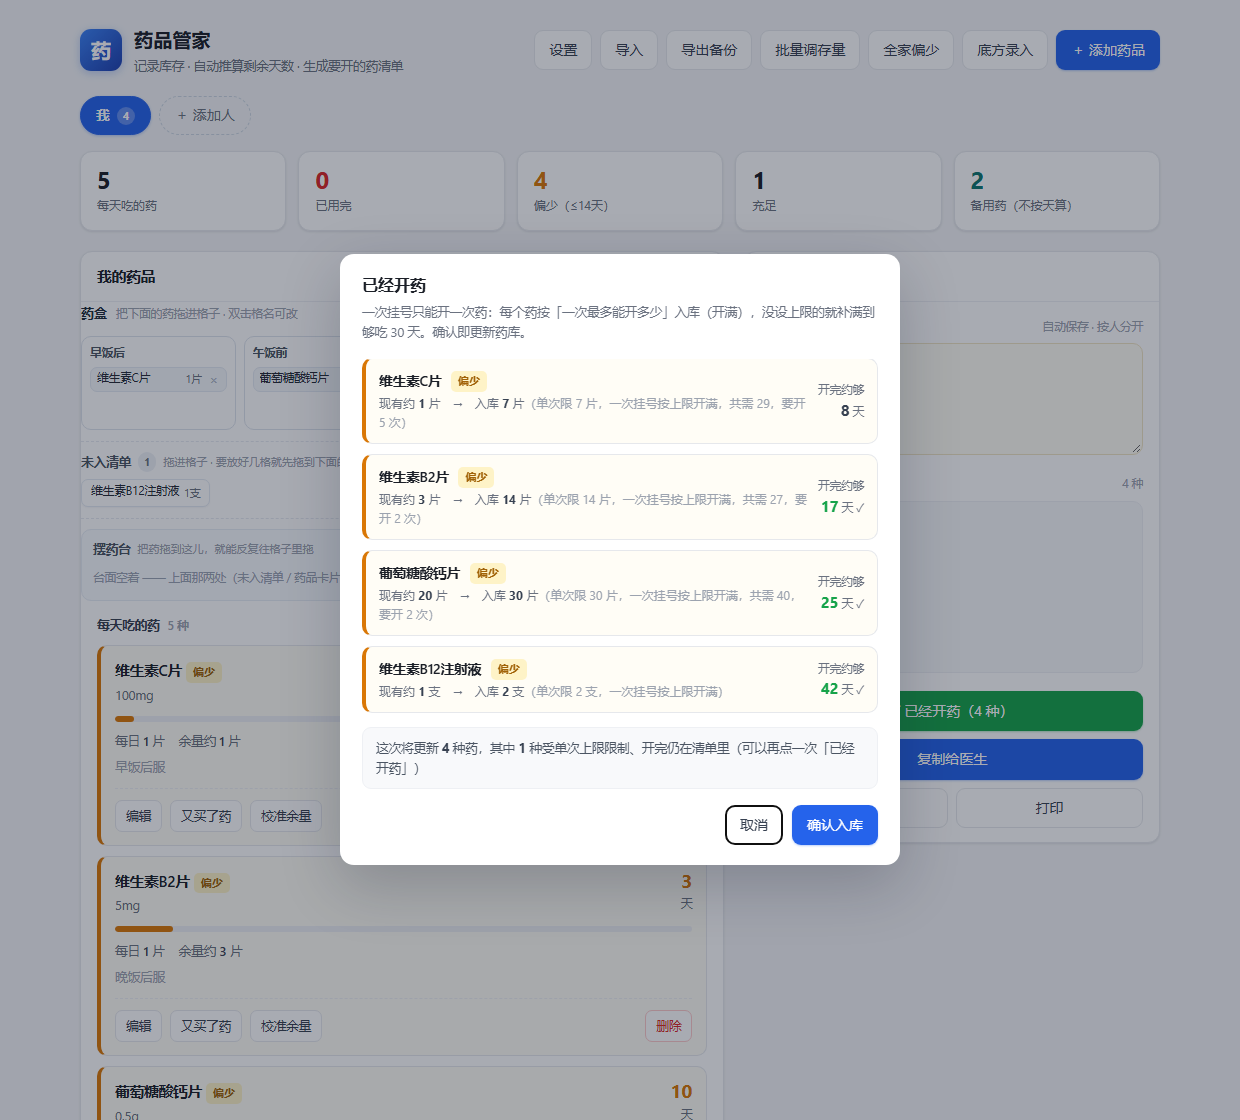
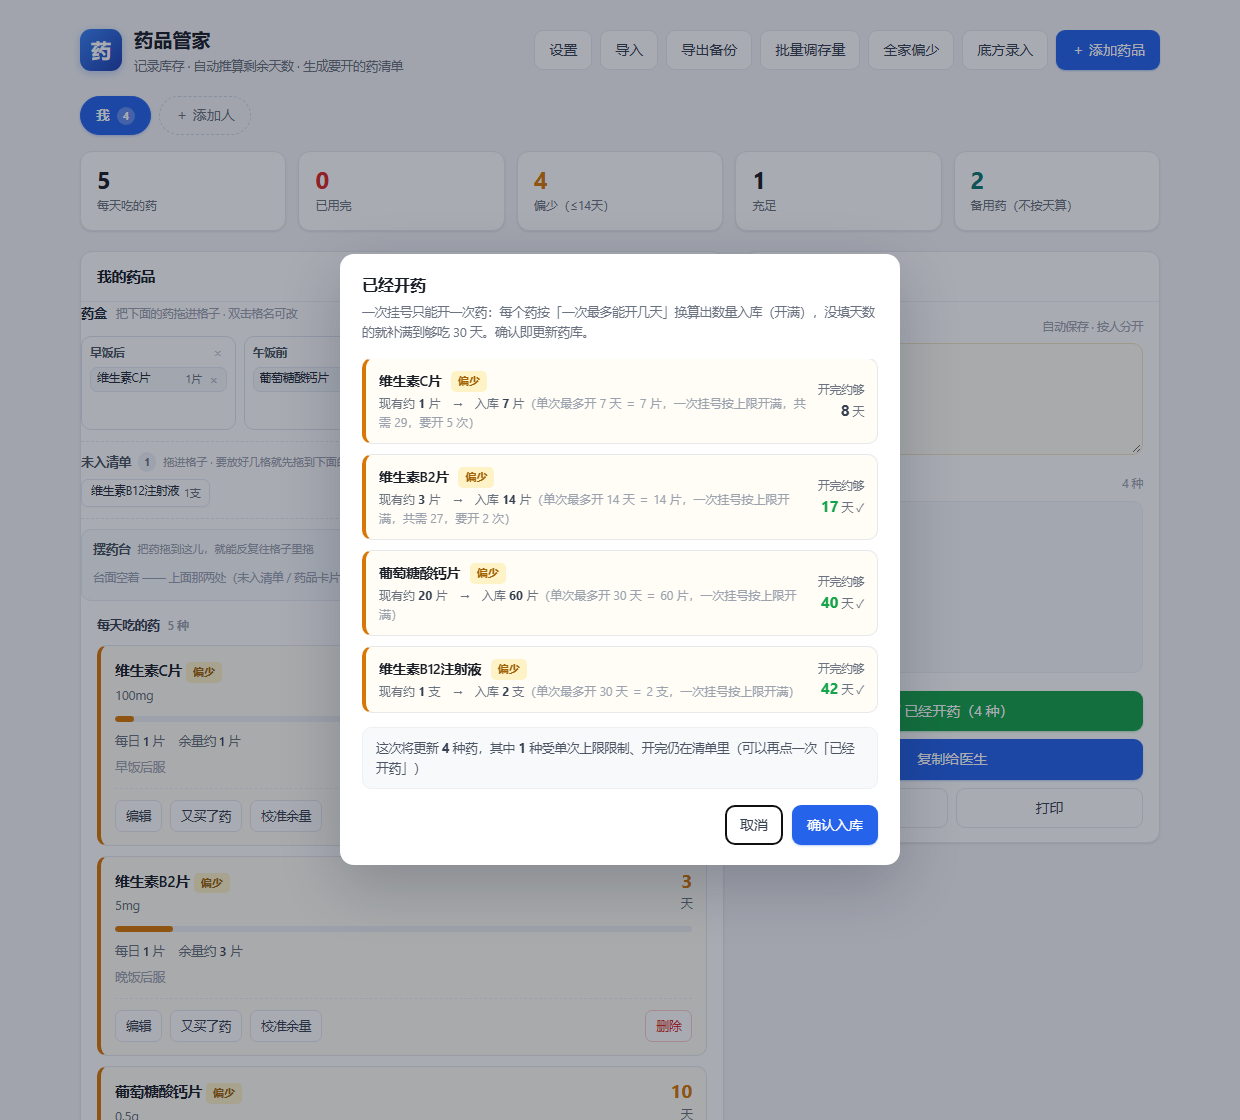
开药限制改成按天填（一次最多能开几天），自动换算成数量；老存档按数量兼容不偷改

diff --git a/index.html b/index.html
@@ -942,11 +942,12 @@ dialog::backdrop{background:rgba(15,23,42,.36)}
         </label>
 
         <div class="sec-title" id="secRxLimit">开药限制</div>
-        <label class="full" id="rxMaxLabel"><span class="lb">一次最多能开多少<b class="req">*</b></span>
+        <label class="full" id="rxMaxLabel"><span class="lb">一次最多能开几天<b class="req">*</b></span>
           <input name="rxMax" type="number" step="1" min="1" autocomplete="off" placeholder="如 30" required>
-          <span class="hintline">医生单次处方的上限 —— 一次挂号只能开一次药，所以这一次能拿到多少
-            就看这里。单位是上面填的「<b id="rxUnitTip">片</b>」；卡片和「已经开药」都会按这个数来。
-            拿不准就照上次开药的数量填 —— 它决定「要跑几趟」，不能空着。</span>
+          <span class="hintline">医生单次处方最多能给<b>几天</b>的量 —— 这一格填<b>天数</b>，不填片数。
+            程序按上面填的用法自己换算成数量：<b id="rxConv">—</b>。
+            一次挂号只能开一次药，所以这一格决定「这一次能拿多少、一共要跑几趟」，不能空着。
+            拿不准就照上次开的那几天填。</span>
         </label>
 
         <label class="full"><span class="lb">备注<span class="opt">选填</span></span>
@@ -1243,7 +1244,7 @@ dialog::backdrop{background:rgba(15,23,42,.36)}
   <form id="formDisp">
     <div class="dlg-h">
       <h3>已经开药</h3>
-      <p id="dispSub">一次挂号只能开一次药：每个药按「一次最多能开多少」入库，没设上限的就补满到目标天数。确认即更新药库。</p>
+      <p id="dispSub">一次挂号只能开一次药：每个药按「一次最多能开几天」换算出数量入库，没填天数的就补满到目标天数。确认即更新药库。</p>
     </div>
     <div class="dlg-b">
       <div class="disp-list" id="dispList"></div>
@@ -1671,10 +1672,29 @@ function needUnits(m){
   if(d <= 0 || !isFinite(dl)) return 0;
   return Math.max(0, Math.ceil((settings.targetDays - dl) * d - 1e-9));
 }
-// 单次开药上限（单位数）。没填 = 不限
+// 单次开药上限（**单位数**）—— 界面填的是天数，这里负责换算。
+// ★ 2026-10-27 用户要求：这一格改成「一次最多能开几天」。理由是开药按天说话
+//   （「最多开 30 天」），换算成片数每家规格都不一样，填片数等于让人自己乘一遍。
+// ★ 老存档里那个数是**数量**（没有 rxMaxDay 标记）：原样当数量用，**不偷偷换算写回** ——
+//   换算是不可逆的（数量 ÷ 每天用量，除不尽就会改掉用户当初填的数）。
+//   只有在编辑那一格里才按天显示出来给人看，保存时才落成天数。
+//   没填 / 填 0 = 老的「不限」。
+function rxMaxIsDay(m){ return !!(m && m.rxMaxDay); }
+function rxCapDays(m){
+  const v = num(m.rxMax);
+  return (v > 0 && rxMaxIsDay(m)) ? v : Infinity;
+}
 function rxCap(m){
   const v = num(m.rxMax);
-  return v > 0 ? v : Infinity;
+  if(!(v > 0)) return Infinity;                 // 没填 = 不限
+  if(!rxMaxIsDay(m)) return v;                  // 老存档：这个数本来就是数量
+  const c = cycle(m);
+  if(c.days <= 0 || c.times <= 0) return Infinity;   // 没填用法，换算不了
+  // 天数 → 次数：按**整周期向下取整**（30 天上限、每 14 天 1 支 → 2 支 = 28 天，不超上限）。
+  // 至少给 1 次的量 —— 上限比一个周期还短时（写 7 天、其实两周打一支），
+  // 药是拆不开的，给 0 支等于「这药永远开不了」，那才是胡说。
+  const doses = Math.max(1, Math.floor(v / c.days + 1e-9)) * c.times;
+  return round2(doses * num(m.perDose));
 }
 // 要开够得跑几趟（受单次上限限制时 > 1）
 function rxTrips(m){
@@ -2502,11 +2522,15 @@ function openEditor(id){
     };
     f.stockBase.value = preQty;
     f.stockDate.value = todayStr();
-    // 「一次最多能开多少」现在是必填，所以老存档里 rxMax=0（旧的「不限」）要留空让人补填，
+    // 「一次最多能开几天」现在是必填，所以老存档里 rxMax=0（旧的「不限」）要留空让人补填，
     // 并换一句 placeholder 说明为什么这格是空的 —— 不然看着像 bug。
     // 备用药用不上这一格（它不按天数补货），留着空即可。
-    if(num(m.rxMax) > 0){
-      f.rxMax.value = m.rxMax;
+    // ★ 老存档那个数是**数量**（没有 rxMaxDay 标记），这格现在按天显示 → 当场换算给人看，
+    //   不写回存档。换算除不尽就取整，反正保存时落在用户眼前这个数上。
+    const rxv = num(m.rxMax);
+    if(rxv > 0){
+      const pd = dailyUse(m);
+      f.rxMax.value = (rxMaxIsDay(m) || !(pd > 0)) ? rxv : Math.max(1, Math.round(rxv / pd));
       f.rxMax.placeholder = '如 30';
     } else {
       f.rxMax.value = '';
@@ -2571,14 +2595,38 @@ function syncKindUI(){
   f.timesPerCycle.required = !prn;
   f.rxMax.required = !prn;
 
-  syncRxUnitTip();
+  syncRxConv();
   syncDosePreview();
 }
 
-// 「单位」改了就同步「开药限制」里那个提示单位，读起来是一致的
-function syncRxUnitTip(){
-  const u = ($('#formMed').unit.value || '').trim() || '片';
-  $('#rxUnitTip').textContent = u;
+// 「开药限制」那格填的是**天数**，旁边实时把那句换算写出来：
+// 「每天 2 片 × 30 天 ＝ 60 片」。为什么非要这个 —— 填天数最大的疑惑就是
+// 「那我到底能拿几片」，不写出来人会自己拿计算器乘一遍（还常常乘错规格）。
+function syncRxConv(){
+  const f = $('#formMed');
+  const el = $('#rxConv');
+  if(!el) return;
+  const u = (f.unit.value || '').trim() || '片';
+  const prn = f.kind && f.kind.value === 'prn';
+  const days = num(f.rxMax.value);
+  if(prn){ el.textContent = '—'; return; }
+  const tmp = {
+    kind: 'daily',
+    perDose: num(f.perDose.value, 1),
+    timesPerCycle: num(f.timesPerCycle.value, 1),
+    cycleDays: Math.max(1, Math.round(num(f.cycleDays.value, 1)) || 1),
+    unit: u, rxMax: days, rxMaxDay: 1
+  };
+  const d = dailyUse(tmp);
+  if(!(days > 0)){ el.textContent = '还没填天数'; return; }
+  if(!(d > 0)){ el.textContent = '用法还没填完整，算不出数量'; return; }
+  const qty = rxCap(tmp);
+  const c = cycle(tmp);
+  el.textContent = (c.days === 1
+      ? '每天 ' + fmtNum(d) + ' ' + u + ' × ' + fmtNum(days) + ' 天'
+      : '每 ' + c.days + ' 天 ' + fmtNum(c.times * num(tmp.perDose)) + ' ' + u
+        + '，' + fmtNum(days) + ' 天最多')
+    + ' ＝ ' + fmtNum(qty) + ' ' + u;
 }
 
 // 用法那行的实时白话预览。为什么非要这个：把「每几天」填错的代价是整段余量推算都错，
@@ -2615,7 +2663,7 @@ function syncDosePreview(){
      ① HTML 上的 required / min —— 留空、或低于下限时浏览器当场拦下并把光标放到那一格；
      ② 下面这段 JS —— required 只管「没留空」，管不住「填了 0」：
         每次用量、每周期几次填 0 等于没填用法（卡片算不出「剩几天」），
-        单次上限填 0 是老口径的「不限」而这一格现在必填 —— 都得照样拦。
+        「一次最多能开几天」填 0 是老口径的「不限」而这一格现在必填 —— 都得照样拦。
    一次把所有问题列全再弹，别让人改一格试一次。 */
 async function submitMed(e){
   e.preventDefault();
@@ -2642,7 +2690,7 @@ async function submitMed(e){
   // 余量可以填 0（刚好吃完），但不能空着
   if((f.stockBase.value || '').trim() === '' || !(stockBase >= 0)) miss.push('余量（填 0 可以，但不能空）');
   if(!f.stockDate.value) miss.push('余量日期');
-  if(!prn && !(rxMax > 0)) miss.push('一次最多能开多少（要大于 0）');
+  if(!prn && !(rxMax > 0)) miss.push('一次最多能开几天（要大于 0）');
   if(miss.length){
     await askAlert({
       title: '还有几项没填',
@@ -2664,7 +2712,10 @@ async function submitMed(e){
     timesPerCycle: prn ? 0 : timesPerCycle,
     stockBase: Math.max(0, stockBase),
     stockDate: f.stockDate.value || todayStr(),
+    // ★ rxMax 存的是**天数**，rxMaxDay 这个标记就是「它是天数」的凭证。
+    //   老存档没有这个标记 → 读的时候按老口径（数量）用，不动它。
     rxMax: prn ? 0 : rxMax,
+    rxMaxDay: 1,
     note: (f.note.value || '').trim()
   };
 
@@ -3078,11 +3129,12 @@ function dispItems(){
 
 // 这次的入库计划：不必手填——一次挂号只能开一次药，有单次上限就按上限开满，
 // 没设上限就补满目标天数。qty 统一走 dispQty，和卡片上的「需补」是同一个数。
+// capDays 一并带出去：界面要能说清「单次最多开 N 天」，光给片数等于让用户自己除。
 function dispPlan(){
   return dispItems().map(function(m){
     const cap = rxCap(m);
     const byCap = isFinite(cap);
-    return { m: m, qty: dispQty(m), byCap: byCap };
+    return { m: m, qty: dispQty(m), byCap: byCap, capDays: rxCapDays(m) };
   });
 }
 
@@ -3096,8 +3148,8 @@ async function openDisp(){
     return;
   }
 
-  $('#dispSub').textContent = '一次挂号只能开一次药：每个药按「一次最多能开多少」入库（开满），'
-    + '没设上限的就补满到够吃 ' + settings.targetDays + ' 天。确认即更新药库。';
+  $('#dispSub').textContent = '一次挂号只能开一次药：每个药按「一次最多能开几天」换算出数量入库（开满），'
+    + '没填天数的就补满到够吃 ' + settings.targetDays + ' 天。确认即更新药库。';
 
   let still = 0;
   $('#dispList').innerHTML = plan.map(function(p){
@@ -3117,12 +3169,15 @@ async function openDisp(){
       +     '<div class="disp-meta">现有约 <b>' + fmtNum(stockNow(m)) + '</b> ' + esc(unit)
       +       '　→　入库 <b>' + fmtNum(p.qty) + '</b> ' + esc(unit)
       +       '<span class="disp-src">' + (p.byCap
-              ? '（单次限 ' + fmtNum(p.qty) + ' ' + esc(unit) + '，一次挂号按上限开满'
+              ? '（' + (isFinite(p.capDays)
+                    ? '单次最多开 ' + fmtNum(p.capDays) + ' 天 ＝ ' + fmtNum(p.qty) + ' ' + esc(unit)
+                    : '单次限 ' + fmtNum(p.qty) + ' ' + esc(unit))
+                + '，一次挂号按上限开满'
                 + (p.qty < nu
                     ? '，共需 ' + fmtNum(nu) + '，要开 ' + rxTrips(m) + ' 次'
                     : '')
                 + '）'
-              : '（没设上限，补满 ' + settings.targetDays
+              : '（没填天数，补满 ' + settings.targetDays
                 + ' 天需 ' + fmtNum(nu) + ' ' + esc(unit) + '）') + '</span>'
       +     '</div>'
       +   '</div>'
@@ -3155,7 +3210,7 @@ async function submitDisp(e){
   await askAlert({
     title: '已入库 ' + plan.length + ' 种药',
     sub: left.length
-      ? '还有 ' + left.length + ' 种没到位（受「一次最多能开多少」限制），可以再点一次「已经开药」。'
+      ? '还有 ' + left.length + ' 种没到位（受「一次最多能开几天」限制），可以再点一次「已经开药」。'
       : '现在都在偏少线以上了。'
   });
 }
@@ -4706,6 +4761,9 @@ function importJSON(file){
           stockBase: num(m.stockBase),
           stockDate: m.stockDate || todayStr(),
           rxMax: num(m.rxMax),
+          // ★ 这个标记必须跟着备份一起搬 —— 丢了它，60 天会被当成 60 片读，
+          //   开药上限一下缩到按天算的几分之一（用户会以为程序算错了）。
+          rxMaxDay: m.rxMaxDay ? 1 : 0,
           note: m.note ? String(m.note) : ''
         };
       });
@@ -4787,9 +4845,9 @@ $('#peopleMgr').addEventListener('input', function(e){
 });
 $('#btnCancel').addEventListener('click', function(){ $('#dlgMed').close(); });
 $('#formMed').addEventListener('submit', submitMed);
-// 单位一改，「开药限制」提示里的单位跟着变；用法改了，下面那行白话预览跟着变
+// 天数 / 用法 / 单位一改，「开药限制」旁边那句换算和下面那行白话预览都要跟着变
 $('#formMed').addEventListener('input', function(){
-  syncRxUnitTip();
+  syncRxConv();
   syncDosePreview();
 });
 // 「每天吃 / 备用药」一换，整张表单的字段和必填标记跟着换

diff --git a/_check/test_rxcap.py b/_check/test_rxcap.py
@@ -583,8 +583,8 @@ PROBE = r"""
   var al0 = R.alerts.length;
   submitMed({ preventDefault: function(){} });
   ck('单次上限空着 → 被拦下，没写进药箱', meds.length === before8e, meds.length - before8e);
-  ck('提示点名了「一次最多能开多少」',
-     /一次最多能开多少/.test(R.alerts.slice(al0).join(' | ')), R.alerts[R.alerts.length - 1]);
+  ck('提示点名了「一次最多能开几天」（2026-10-27 改成按天填）',
+     /一次最多能开几天/.test(R.alerts.slice(al0).join(' | ')), R.alerts[R.alerts.length - 1]);
   ck('被拦下时弹窗还开着（没当成功）', q('#dlgMed').open, '');
 
   // 每次用量填 0 = 没填用法（卡片会算不出「剩几天」）→ 照样拦
@@ -621,8 +621,8 @@ PROBE = r"""
   var al4 = R.alerts.length;
   submitMed({ preventDefault: function(){} });
   ck('单次上限填 0 → 被拦下（不再当「不限」）', meds.length === before8e, meds.length - before8e);
-  ck('同上，提示仍是「一次最多能开多少（要大于 0）」',
-     /一次最多能开多少（要大于 0）/.test(R.alerts.slice(al4).join(' | ')),
+  ck('同上，提示仍是「一次最多能开几天（要大于 0）」',
+     /一次最多能开几天（要大于 0）/.test(R.alerts.slice(al4).join(' | ')),
      R.alerts[R.alerts.length - 1]);
 
   // 都填齐了 → 规格 / 备注留空照样存得下去（这两格是选填）
@@ -669,6 +669,101 @@ PROBE = r"""
   fmed.stockBase.value = '0';
   ck('余量填 0 → 合法（0 是有效值，不是"没填"）', formEl.checkValidity() === true, formEl.checkValidity());
   q('#dlgMed').close();
+
+  // --- 8f. ★ 2026-10-27 用户要求：开药限制按**天数**填，不按片数 ---
+  //   原话：「开药限制这里 用天数 一次最多能开多少天 而不是 药片数量」
+  //   为什么：「最多开 30 天」是医生嘴里的话；要多少**片**得按自己的用法乘一遍，
+  //     而那一步恰恰最容易乘错（规格、每日几次、每次几片三处都能错）。
+  //   口径：rxMax 存**天数**，rxMaxDay=1 是「这个数是天」的凭证；
+  //     老存档没有这个标记 → 那个数还是**数量**，读的时候原样当数量用（第 1、2 节
+  //     验的就是这条路），**绝不偷偷换算写回** —— 数量 ÷ 每天用量常常除不尽，
+  //     一换算就把用户当初填的数改掉了（而且不可逆）。
+  var rl = q('#rxMaxLabel');
+  ck('这一格标题改成「一次最多能开几天」',
+     /一次最多能开几天/.test(rl.textContent), rl.textContent.replace(/\s+/g, ' ').slice(0, 40));
+  ck('标题里不再说「一次最多能开多少」', !/一次最多能开多少/.test(rl.textContent), '');
+  ck('说明写明「填天数、不填片数」',
+     /填天数，不填片数/.test(rl.textContent.replace(/\s+/g, '')),
+     rl.textContent.replace(/\s+/g, ' ').slice(0, 200));
+  ck('说明里解释了程序会自己换算成数量', /换算成数量/.test(rl.textContent), '');
+
+  function mkRx(o){
+    return Object.assign({ id: 'rx' + Math.random().toString(36).slice(2, 7), name: '样例',
+      spec: '', kind: 'daily', perDose: 1, unit: '片', cycleDays: 1, timesPerCycle: 1,
+      stockBase: 0, stockDate: todayStr(), rxMax: 0, note: '' }, o);
+  }
+
+  // ① 每天 1 片、最多 7 天
+  var c1r = mkRx({ rxMax: 7, rxMaxDay: 1 });
+  ck('★ 每天 1 片 · 限 7 天 → 单次上限 7 片', rxCap(c1r) === 7, rxCap(c1r));
+  ck('  同一个人理论缺口 = 30 片（补满 30 天）', needUnits(c1r) === 30, needUnits(c1r));
+  ck('  一次 7 天 → 要跑 5 趟', rxTrips(c1r) === 5, rxTrips(c1r));
+
+  // ② ★ 按天算和按片算分道扬镳的那一格：每天 2 片、最多 30 天
+  var c2r = mkRx({ timesPerCycle: 2, rxMax: 30, rxMaxDay: 1 });
+  ck('★ 每天 2 片 · 限 30 天 → 上限 60 片（不是 30 片）', rxCap(c2r) === 60, rxCap(c2r));
+  ck('  rxCapDays 读到的是 30', rxCapDays(c2r) === 30, rxCapDays(c2r));
+  ck('  60 片正好 30 天的量 → 只跑 1 趟', rxTrips(c2r) === 1, rxTrips(c2r));
+
+  // ③ 隔天用的药：天数要落到「整周期」上，不能给 2.14 支
+  var c3r = mkRx({ unit: '支', cycleDays: 14, timesPerCycle: 1, rxMax: 30, rxMaxDay: 1 });
+  ck('★ 每 14 天 1 支 · 限 30 天 → 2 支（2×14=28 天，不超上限）', rxCap(c3r) === 2, rxCap(c3r));
+  // ④ 上限比一个周期还短：至少给一次的量（药拆不开，给 0 支等于这药永远开不了）
+  var c4r = mkRx({ unit: '支', cycleDays: 14, timesPerCycle: 1, rxMax: 7, rxMaxDay: 1 });
+  ck('★ 限 7 天、其实两周打一支 → 至少 1 支（不能给 0.5 支）', rxCap(c4r) === 1, rxCap(c4r));
+
+  // ⑤ 老存档（没有 rxMaxDay）里的 30 是**数量**
+  var c5r = mkRx({ timesPerCycle: 2, rxMax: 30 });
+  ck('★ 老存档的 30 当 30 片读，不当 30 天（否则上限凭空翻倍）',
+     rxCap(c5r) === 30, rxCap(c5r));
+  ck('  老存档没有「天数」可说 → rxCapDays 是无穷（弹窗仍按片数写）',
+     rxCapDays(c5r) === Infinity, String(rxCapDays(c5r)));
+  // ⑥ 0 = 老口径的「不限」
+  ck('rxMax=0 → 不限（Infinity）', rxCap(mkRx({ rxMax: 0 })) === Infinity,
+     String(rxCap(mkRx({ rxMax: 0 }))));
+
+  // ⑦ 表单：按天填，旁边当场把天数换算成数量
+  var fMed = mkRx({ name: '按天开药片', timesPerCycle: 2, rxMax: 30, rxMaxDay: 1 });
+  meds.push(fMed); render();
+  openEditor(fMed.id);
+  ck('编辑时那格显示 30（天），不是 60（片）', fmed.rxMax.value === '30', fmed.rxMax.value);
+  var conv = q('#rxConv') ? q('#rxConv').textContent.replace(/\s+/g, ' ') : '(没有 #rxConv)';
+  ck('★ 旁边当场写出换算「每天 2 片 × 30 天 ＝ 60 片」',
+     /每天 2 片/.test(conv) && /30 天/.test(conv) && /60 片/.test(conv), conv);
+  fmed.rxMax.value = '15';
+  fmed.rxMax.dispatchEvent(new Event('input', { bubbles: true }));
+  conv = q('#rxConv').textContent.replace(/\s+/g, ' ');
+  ck('改天数 → 那句换算当场跟着变（15 天 ＝ 30 片）',
+     /15 天/.test(conv) && /30 片/.test(conv), conv);
+  submitMed({ preventDefault: function(){} });
+  var savedDays = byName('按天开药片');
+  ck('★ 存下来的是天数：rxMax=15 且 rxMaxDay=1',
+     !!savedDays && savedDays.rxMax === 15 && savedDays.rxMaxDay === 1,
+     savedDays ? savedDays.rxMax + ' / ' + savedDays.rxMaxDay : '(没存上)');
+  ck('  它的单次上限仍是 30 片', savedDays && rxCap(savedDays) === 30,
+     savedDays ? rxCap(savedDays) : null);
+
+  // ⑧ 老存档那味药（rxMax 是数量）→ 打开编辑时按天显示，但**不改存档**
+  var oldMed = mkRx({ name: '老口径开药片', timesPerCycle: 2, rxMax: 60 });   // 60 片 / 每天 2 片
+  meds.push(oldMed); render();
+  openEditor(oldMed.id);
+  ck('老存档 60 片 ÷ 每天 2 片 → 那格显示 30 天', fmed.rxMax.value === '30', fmed.rxMax.value);
+  q('#dlgMed').close();
+  ck('只是打开看一眼 → 存档里的 60 和「没有标记」都原样不动',
+     oldMed.rxMax === 60 && !oldMed.rxMaxDay, oldMed.rxMax + ' / ' + oldMed.rxMaxDay);
+
+  // ⑨ 「已经开药」弹窗得把「限几天」和「多少片」一起写清
+  setMeds([ mkRx({ name: '弹窗按天片', rxMax: 7, rxMaxDay: 1 }) ]);
+  save(); render();
+  openDisp();
+  var drow = q('#dispList').textContent.replace(/\s+/g, ' ');
+  ck('★ 弹窗行内写「单次最多开 7 天 ＝ 7 片」',
+     /单次最多开\s*7\s*天\s*＝\s*7\s*片/.test(drow), drow.slice(0, 200));
+  ck('  也照样给出趟数（共需 30、要开 5 次）',
+     /共需\s*30.*?要开\s*5\s*次/.test(drow), drow.slice(0, 260));
+  ck('弹窗开头改口成「一次最多能开几天」',
+     /一次最多能开几天/.test(q('#dispSub').textContent), q('#dispSub').textContent);
+  q('#dlgDisp').close();
 
   // ---- 9. ★ 2026-10-11 用户要求：「又买了药」「校准余量」也走中间弹窗 ----
   //    原来是浏览器原生 prompt（顶部小框、手机上难用）。现在共用 #dlgNum，

diff --git a/_check/shot.py b/_check/shot.py
@@ -22,16 +22,20 @@ DEMO_JS = r"""
 (function(){
   var agoD = function(n){ var d = new Date(); d.setDate(d.getDate() - n); return fmtDate(d); };
   var demo = [
+    /* ★ 2026-10-27 起「开药限制」填的是**天数**（rxMaxDay:1 是这个口径的标记）。
+       编辑那张截图拍的就是葡萄糖酸钙：30 天 × 每天 2 片 ＝ 60 片，
+       正好把「按天填、程序自己换算」这件事摆在图上。 */
     { name:'维生素C片', spec:'100mg', perDose:1, unit:'片', cycleDays:1, timesPerCycle:1,
-      stockBase:14, stockDate:agoD(13), rxMax:7, note:'早饭后服' },
+      stockBase:14, stockDate:agoD(13), rxMax:7, rxMaxDay:1, note:'早饭后服' },
     { name:'维生素B2片', spec:'5mg', perDose:1, unit:'片', cycleDays:1, timesPerCycle:1,
-      stockBase:21, stockDate:agoD(18), rxMax:14, note:'晚饭后服' },
+      stockBase:21, stockDate:agoD(18), rxMax:14, rxMaxDay:1, note:'晚饭后服' },
     { name:'葡萄糖酸钙片', spec:'0.5g', perDose:1, unit:'片', cycleDays:1, timesPerCycle:2,
-      stockBase:60, stockDate:agoD(20), rxMax:30, note:'随餐服' },
+      stockBase:60, stockDate:agoD(20), rxMax:30, rxMaxDay:1, note:'随餐服' },
     { name:'健胃消食片', spec:'0.8g', perDose:1, unit:'片', cycleDays:1, timesPerCycle:1,
-      stockBase:90, stockDate:agoD(10), rxMax:30, note:'空腹服' },
+      stockBase:90, stockDate:agoD(10), rxMax:30, rxMaxDay:1, note:'空腹服' },
+    /* 每 2 周 1 支：限 30 天 → 2 支（28 天），药拆不开不能给 2.14 支 */
     { name:'维生素B12注射液', spec:'0.5mg/支', perDose:1, unit:'支', cycleDays:14, timesPerCycle:1,
-      stockBase:2, stockDate:agoD(20), rxMax:2, note:'皮下注射，每 2 周 1 次' },
+      stockBase:2, stockDate:agoD(20), rxMax:30, rxMaxDay:1, note:'皮下注射，每 2 周 1 次' },
     /* ★ 2026-10-22 起药分两类，截图里必须有「备用药」那一栏 —— 否则 docs/ 还是旧版的样子，
        README 就成了"图和事实对不上"。这两味的 timesPerCycle = 0 / kind = 'prn'：
        不按天数推算、不进续方清单、卡片右上角写的是**余量**不是天数。 */

diff --git a/_check/test_prn.py b/_check/test_prn.py
@@ -322,8 +322,8 @@ PROBE = r"""
   var n3 = meds.length, al2 = R.alerts.length;
   submitMed({ preventDefault: function(){} });
   ck('每天吃的缺开药上限 → 仍被拦下', meds.length === n3, meds.length - n3);
-  ck('提示仍是「一次最多能开多少」',
-     /一次最多能开多少/.test(R.alerts.slice(al2).join(' | ')), R.alerts[R.alerts.length - 1]);
+  ck('提示仍是「一次最多能开几天」（2026-10-27 改成按天填）',
+     /一次最多能开几天/.test(R.alerts.slice(al2).join(' | ')), R.alerts[R.alerts.length - 1]);
   // 每周期几次填 0（= 没设用法）→ 仍拦
   fmed.rxMax.value = '30';
   fmed.timesPerCycle.value = 0;
